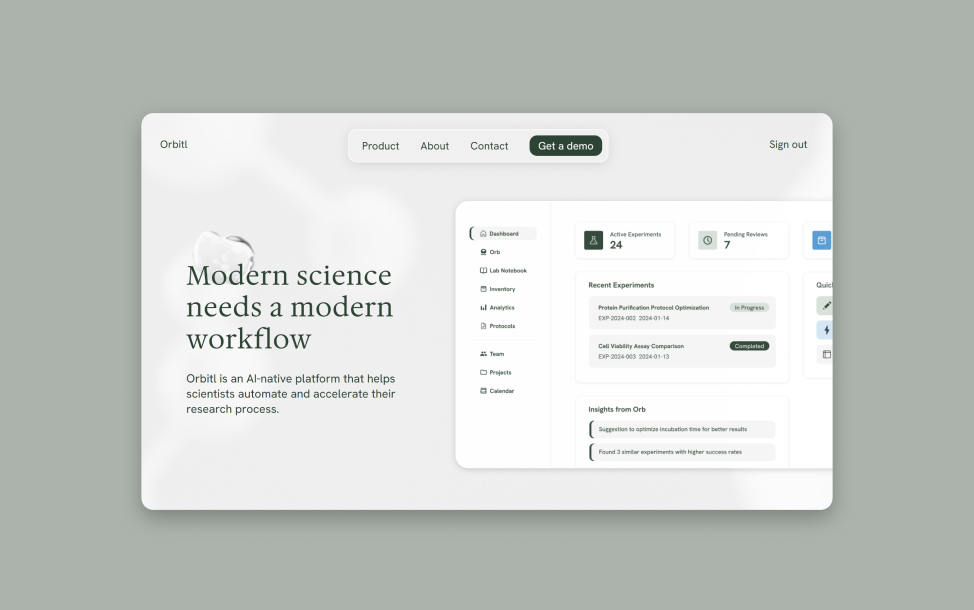
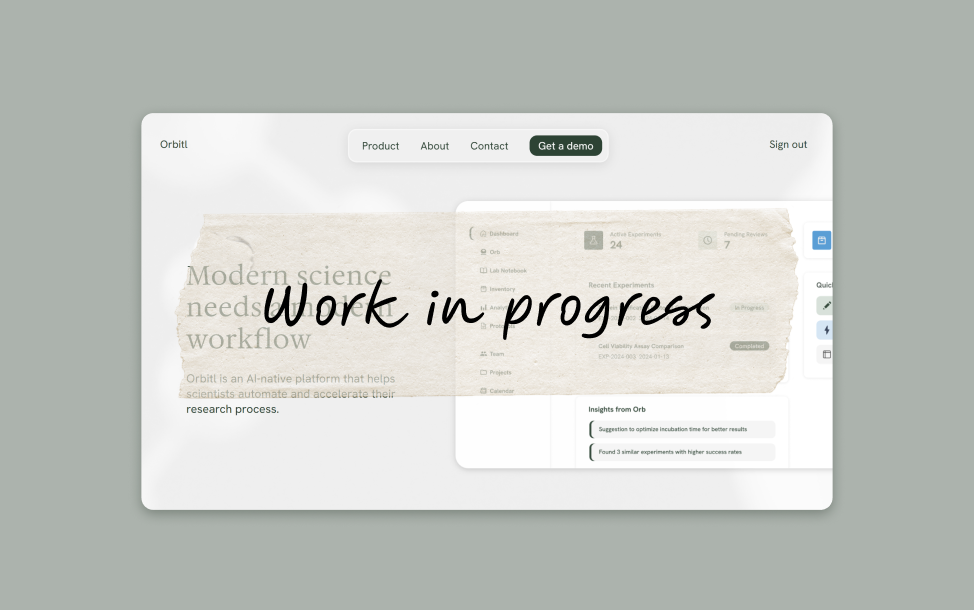
style: work in progress

Changed region(s): [[0.1848, 0.3426, 0.8316, 0.6541]]

diff --git a/src/components/Projects-Container.jsx b/src/components/Projects-Container.jsx
@@ -1,44 +1,68 @@
+import { useRef } from "react";
+
 export default function ProjectsContainer({
   content,
 }) {
+  const projectsRef = useRef();
+  const handleClick = (e) => {
+    e.preventDefault();
+    projectsRef.current.scrollIntoView({
+      behavior: "smooth",
+    });
+  };
+
   return (
     <section className="projects">
-      <h2>Read about my latest work</h2>
-      <div>
-        {Object.values(content).map((project) => (
-          <a
-            key={project.title}
-            href={`/${project.title.replaceAll(
-              " ",
-              "-"
-            )}`}
-          >
-            <figure
-              className={"image-caption modern"}
+      <a
+        href="#latest-projects"
+        onClick={handleClick}
+      >
+        <h2>Read about my latest work</h2>
+      </a>
+      <div id="latest-projects" ref={projectsRef}>
+        {Object.values(content).map((project) => {
+          return (
+            <a
+              className={
+                project.title === "Orbitl"
+                  ? "wip"
+                  : null
+              }
+              key={project.title}
+              href={
+                project.title === "Orbitl"
+                  ? null
+                  : `/${project.title.replaceAll(
+                      " ",
+                      "-"
+                    )}`
+              }
             >
-              <img
-                src={`/projects/${project.images_featured[0].src}`}
-                alt={
-                  project.images_featured[0].alt
-                }
-              />
-              <figcaption>
-                <h3>{project.title}</h3>
-                <p>{project.desc_short}</p>
-                <ul className="tags">
-                  <li>{project.type}</li>
-                  {project.tools.map((tool) => (
-                    <li
-                      key={`${project.title}-${tool}`}
-                    >
-                      {tool}
-                    </li>
-                  ))}
-                </ul>
-              </figcaption>
-            </figure>
-          </a>
-        ))}
+              <figure className="image-caption modern">
+                <img
+                  src={`/projects/${project.images_featured[0].src}`}
+                  alt={
+                    project.images_featured[0].alt
+                  }
+                />
+                <figcaption>
+                  <h3>{project.title}</h3>
+                  <p>{project.desc_short}</p>
+                  <ul className="tags">
+                    <li>{project.type}</li>
+                    {project.tools.map((tool) => (
+                      <li
+                        key={`${project.title}-${tool}`}
+                      >
+                        {tool}
+                      </li>
+                    ))}
+                  </ul>
+                </figcaption>
+              </figure>
+            </a>
+          );
+        })}
       </div>
     </section>
   );

diff --git a/src/index.css b/src/index.css
@@ -601,10 +601,15 @@ footer > a > p:hover {
     outline 300ms ease-in-out;
 }
 
-.projects > div a:hover {
+.projects > div a:not(.wip):hover {
   outline: 2px dashed var(--main);
   transform: translateY(-3%);
   cursor: pointer;
+}
+
+.projects > div a.wip:hover {
+  opacity: 0.7;
+  cursor: not-allowed;
 }
 
 .projects .modern figcaption {
@@ -619,7 +624,7 @@ footer > a > p:hover {
 }
 
 .projects .modern figcaption p {
-  margin: 0.5rem 0;
+  margin: 0 0 0.5rem 0;
   font-size: var(--S);
 }
 
